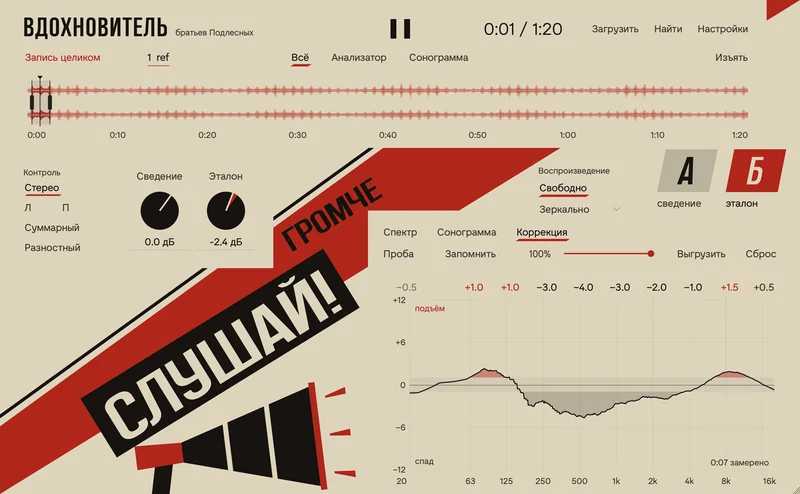
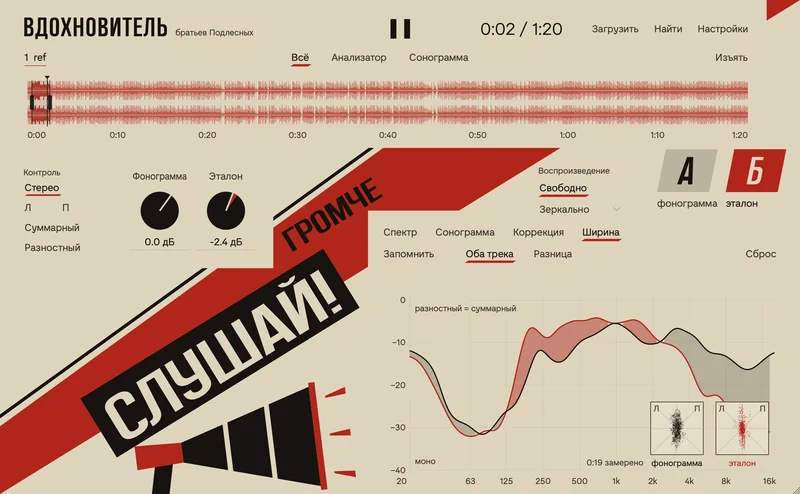
INSPIRATOR 0.13.0: новая вкладка на снимке и ссылки на релиз

diff --git a/index.html b/index.html
@@ -87,18 +87,18 @@
 
     <article class="item" id="inspirator">
       <div class="item-head">
-        <h2>INSPIRATOR<span class="version">0.12.0</span></h2>
+        <h2>INSPIRATOR<span class="version">0.13.0</span></h2>
         <p class="platforms">macOS: VST3, AU · Windows: VST3</p>
       </div>
       <figure class="plinth">
         <picture>
           <source type="image/webp" srcset="/assets/inspirator-poster-800.webp 800w, /assets/inspirator-poster.webp 1400w" sizes="(max-width: 860px) 92vw, 1040px">
-          <img src="/assets/inspirator-poster.png" alt="Интерфейс INSPIRATOR с кривой Match" width="1400" height="865" loading="lazy" decoding="async">
+          <img src="/assets/inspirator-poster.png" alt="Интерфейс INSPIRATOR: вкладка Ширина, кривые двух треков и гониометры" width="1400" height="865" loading="lazy" decoding="async">
         </picture>
       </figure>
       <div class="get">
-        <a class="btn" href="https://github.com/Podlesny-Twins/podlesnytwins-plugins/releases/download/inspirator-0.12.0/INSPIRATOR-0.12.0-macOS.zip">macOS</a>
-        <a class="btn" href="https://github.com/Podlesny-Twins/podlesnytwins-plugins/releases/download/inspirator-0.12.0/INSPIRATOR-Setup-v0.12.0.exe">Windows</a>
+        <a class="btn" href="https://github.com/Podlesny-Twins/podlesnytwins-plugins/releases/download/inspirator-0.13.0/INSPIRATOR-0.13.0-macOS.zip">macOS</a>
+        <a class="btn" href="https://github.com/Podlesny-Twins/podlesnytwins-plugins/releases/download/inspirator-0.13.0/INSPIRATOR-Setup-v0.13.0.exe">Windows</a>
       </div>
     </article>
 
